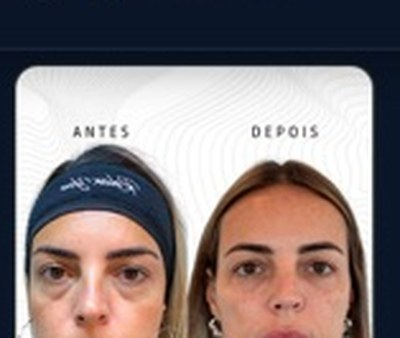
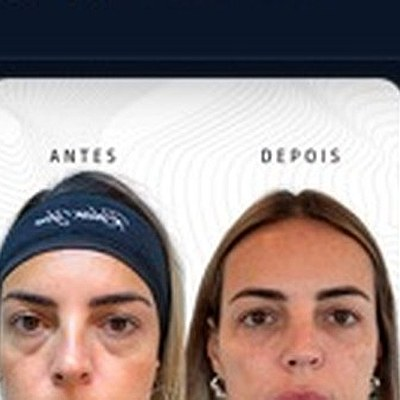
fix: corrige imagens de resultados e atualiza frase NaturalUp
- Todas as fotos de antes/depois agora são 400x400 (quadradas, sem barras cinzas)
- Corrige resultado-15 (extensão .jpg.jpg duplicada)
- Remove duplicatas (resultado-3 e resultado-10 apareciam 2x)
- Reduz para 13 resultados únicos
- Troca frase NaturalUp para: O tempo deixa de ser o vilão...

diff --git a/clinica-gm/index.html b/clinica-gm/index.html
@@ -309,7 +309,7 @@
     </div>
 
     <div class="naturalup-quote reveal">
-      <blockquote>"Natural não é fazer pouco. Natural é fazer certo."</blockquote>
+      <blockquote>"O tempo deixa de ser o vilão e passa a ser aliado dos seus procedimentos."</blockquote>
     </div>
 
     <div class="naturalup-cta reveal">
@@ -329,7 +329,6 @@
     <div class="results-grid">
       <div class="result-img-wrap reveal" role="button" tabindex="0" onclick="openLightbox(this)" onkeydown="if(event.key==='Enter')openLightbox(this)"><img src="assets/resultados/resultado-1.jpg" alt="Resultado paciente 1" loading="lazy" width="300" height="300"></div>
       <div class="result-img-wrap reveal" role="button" tabindex="0" onclick="openLightbox(this)" onkeydown="if(event.key==='Enter')openLightbox(this)"><img src="assets/resultados/resultado-3.jpg" alt="Resultado paciente 2" loading="lazy" width="300" height="300"></div>
-      <div class="result-img-wrap reveal" role="button" tabindex="0" onclick="openLightbox(this)" onkeydown="if(event.key==='Enter')openLightbox(this)"><img src="assets/resultados/resultado-3.jpg" alt="Resultado paciente 3" loading="lazy" width="300" height="300"></div>
       <div class="result-img-wrap reveal" role="button" tabindex="0" onclick="openLightbox(this)" onkeydown="if(event.key==='Enter')openLightbox(this)"><img src="assets/resultados/resultado-4.jpg" alt="Resultado paciente 4" loading="lazy" width="300" height="300"></div>
       <div class="result-img-wrap reveal" role="button" tabindex="0" onclick="openLightbox(this)" onkeydown="if(event.key==='Enter')openLightbox(this)"><img src="assets/resultados/resultado-5.jpg" alt="Resultado paciente 5" loading="lazy" width="300" height="300"></div>
       <div class="result-img-wrap reveal" role="button" tabindex="0" onclick="openLightbox(this)" onkeydown="if(event.key==='Enter')openLightbox(this)"><img src="assets/resultados/resultado-6.jpg" alt="Resultado paciente 6" loading="lazy" width="300" height="300"></div>
@@ -337,11 +336,10 @@
       <div class="result-img-wrap reveal" role="button" tabindex="0" onclick="openLightbox(this)" onkeydown="if(event.key==='Enter')openLightbox(this)"><img src="assets/resultados/resultado-8.jpg" alt="Resultado paciente 8" loading="lazy" width="300" height="300"></div>
       <div class="result-img-wrap reveal" role="button" tabindex="0" onclick="openLightbox(this)" onkeydown="if(event.key==='Enter')openLightbox(this)"><img src="assets/resultados/resultado-9.jpg" alt="Resultado paciente 9" loading="lazy" width="300" height="300"></div>
       <div class="result-img-wrap reveal" role="button" tabindex="0" onclick="openLightbox(this)" onkeydown="if(event.key==='Enter')openLightbox(this)"><img src="assets/resultados/resultado-10.jpg" alt="Resultado paciente 10" loading="lazy" width="300" height="300"></div>
-      <div class="result-img-wrap reveal" role="button" tabindex="0" onclick="openLightbox(this)" onkeydown="if(event.key==='Enter')openLightbox(this)"><img src="assets/resultados/resultado-10.jpg" alt="Resultado paciente 11" loading="lazy" width="300" height="300"></div>
       <div class="result-img-wrap reveal" role="button" tabindex="0" onclick="openLightbox(this)" onkeydown="if(event.key==='Enter')openLightbox(this)"><img src="assets/resultados/resultado-12.jpg" alt="Resultado paciente 12" loading="lazy" width="300" height="300"></div>
       <div class="result-img-wrap reveal" role="button" tabindex="0" onclick="openLightbox(this)" onkeydown="if(event.key==='Enter')openLightbox(this)"><img src="assets/resultados/resultado-13.jpg" alt="Resultado paciente 13" loading="lazy" width="300" height="300"></div>
       <div class="result-img-wrap reveal" role="button" tabindex="0" onclick="openLightbox(this)" onkeydown="if(event.key==='Enter')openLightbox(this)"><img src="assets/resultados/resultado-14.jpg" alt="Resultado paciente 14" loading="lazy" width="300" height="300"></div>
-      <div class="result-img-wrap reveal" role="button" tabindex="0" onclick="openLightbox(this)" onkeydown="if(event.key==='Enter')openLightbox(this)"><img src="assets/resultados/resultado-1.jpg.jpg" alt="Resultado paciente 15" loading="lazy" width="300" height="300"></div>
+      <div class="result-img-wrap reveal" role="button" tabindex="0" onclick="openLightbox(this)" onkeydown="if(event.key==='Enter')openLightbox(this)"><img src="assets/resultados/resultado-15.jpg" alt="Resultado paciente 15" loading="lazy" width="300" height="300"></div>
     </div>
 
     <div class="counters reveal">
